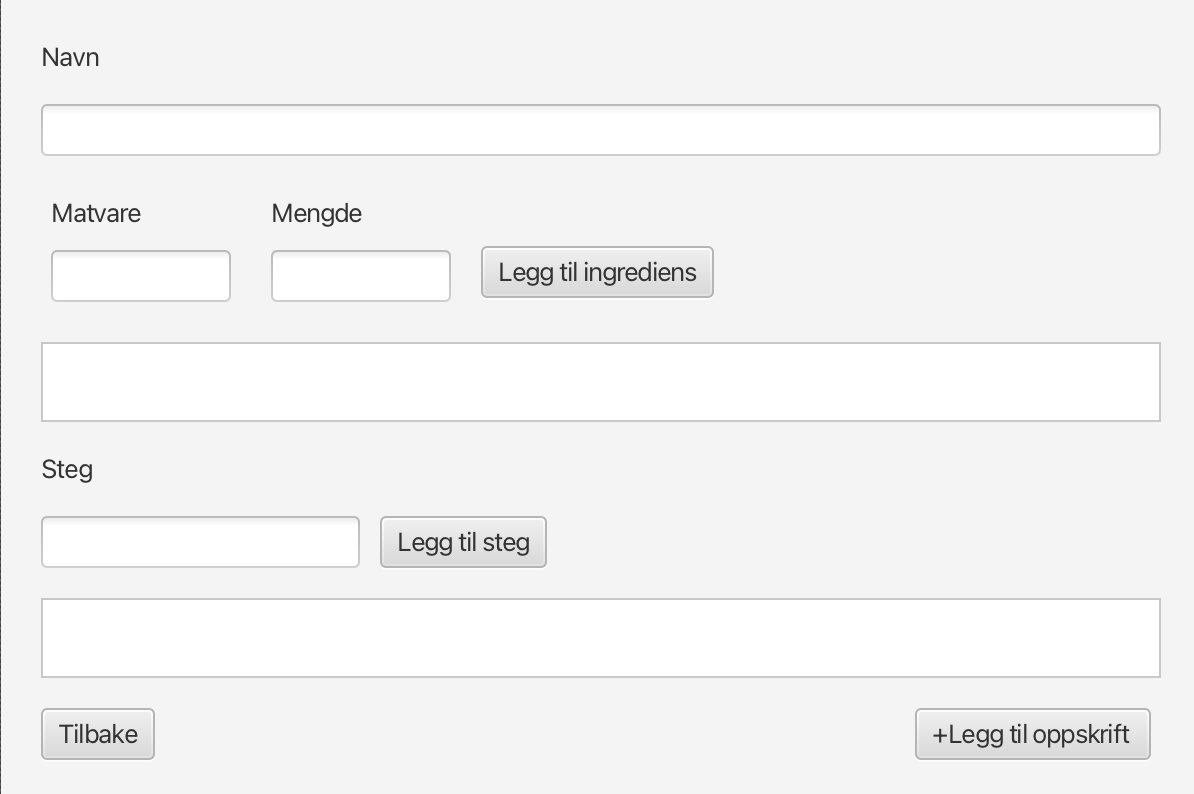
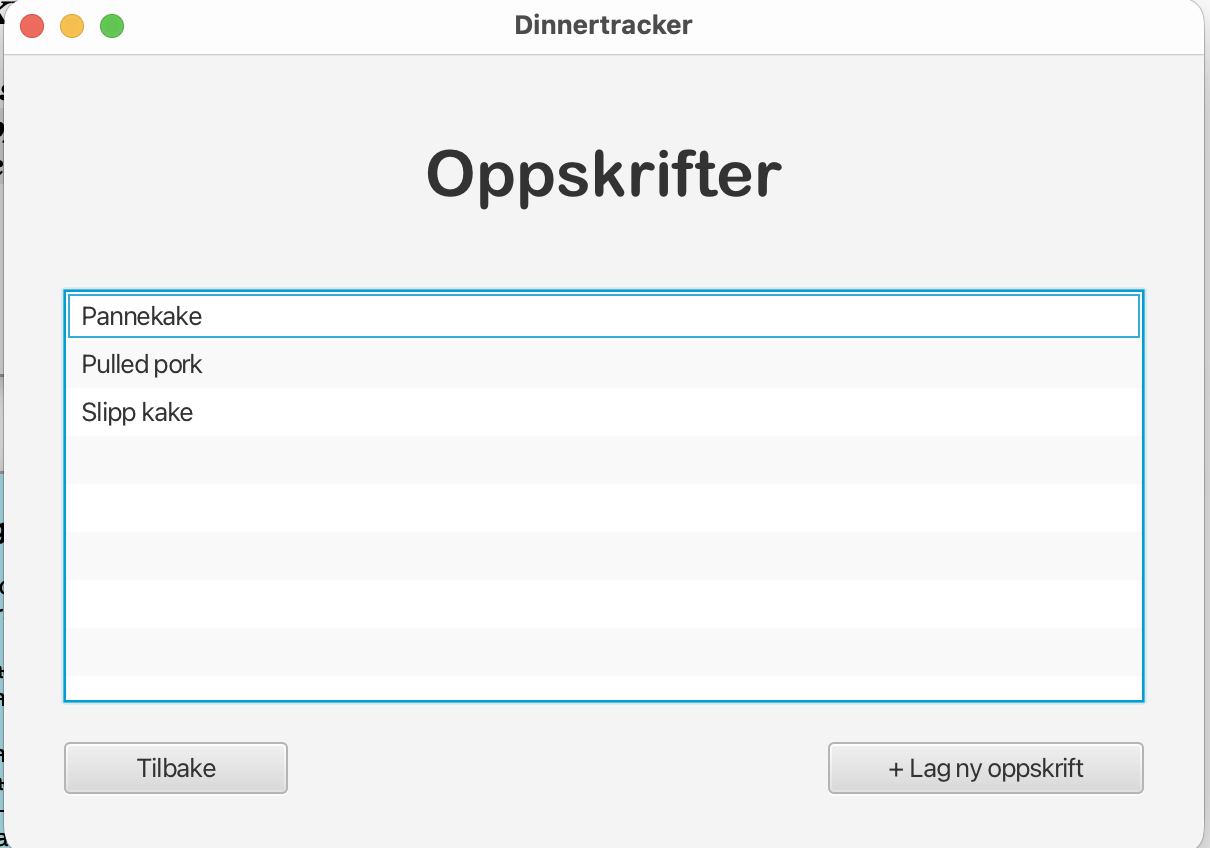
docs: Fix screenshots

diff --git a/dinnertracker/README.md b/dinnertracker/README.md
@@ -25,6 +25,11 @@ Release 1 focused mainly on recipe functionality, while Release 2 extends the ap
 *Screenshot of the Dinnertracker application - recipes page.*
 
 
+![Dinnertracker recipes page](images/recipeView.png)
+
+*Screenshot of the Dinnertracker application - add recipe page.*
+
+
 ![Dinnertracker fridge page](images/fridge.png)
 
 *Screenshot of the Dinnertracker application - fridge page.*
